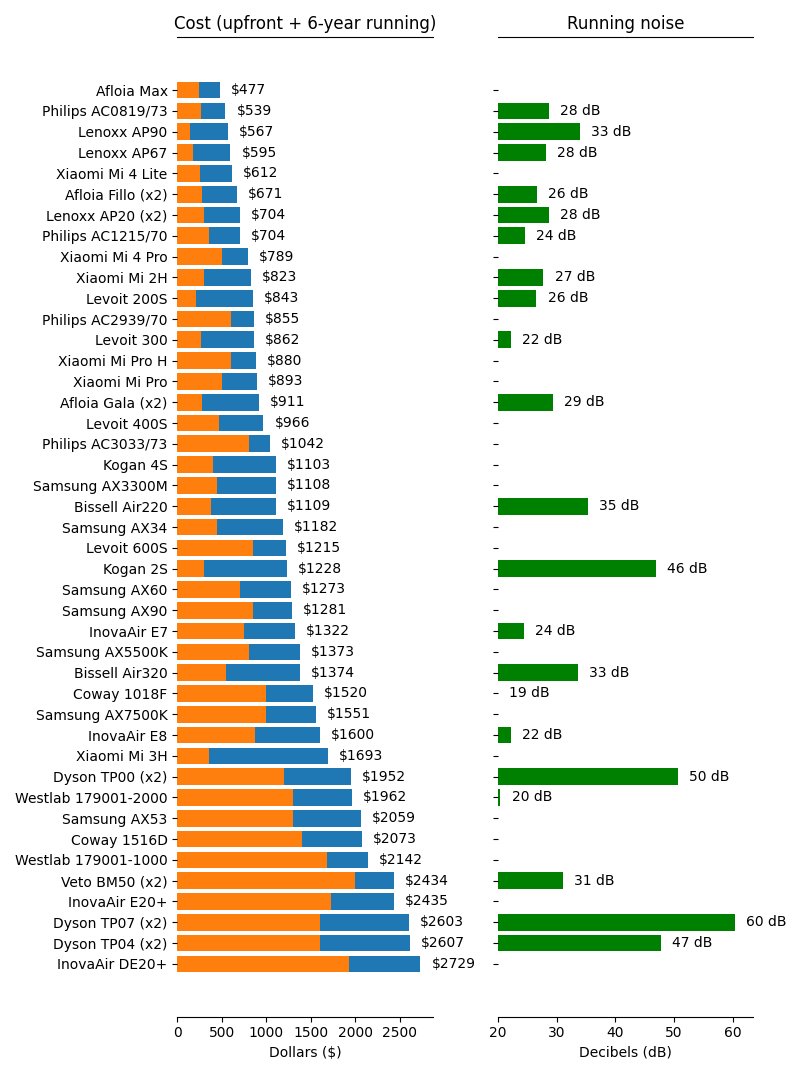
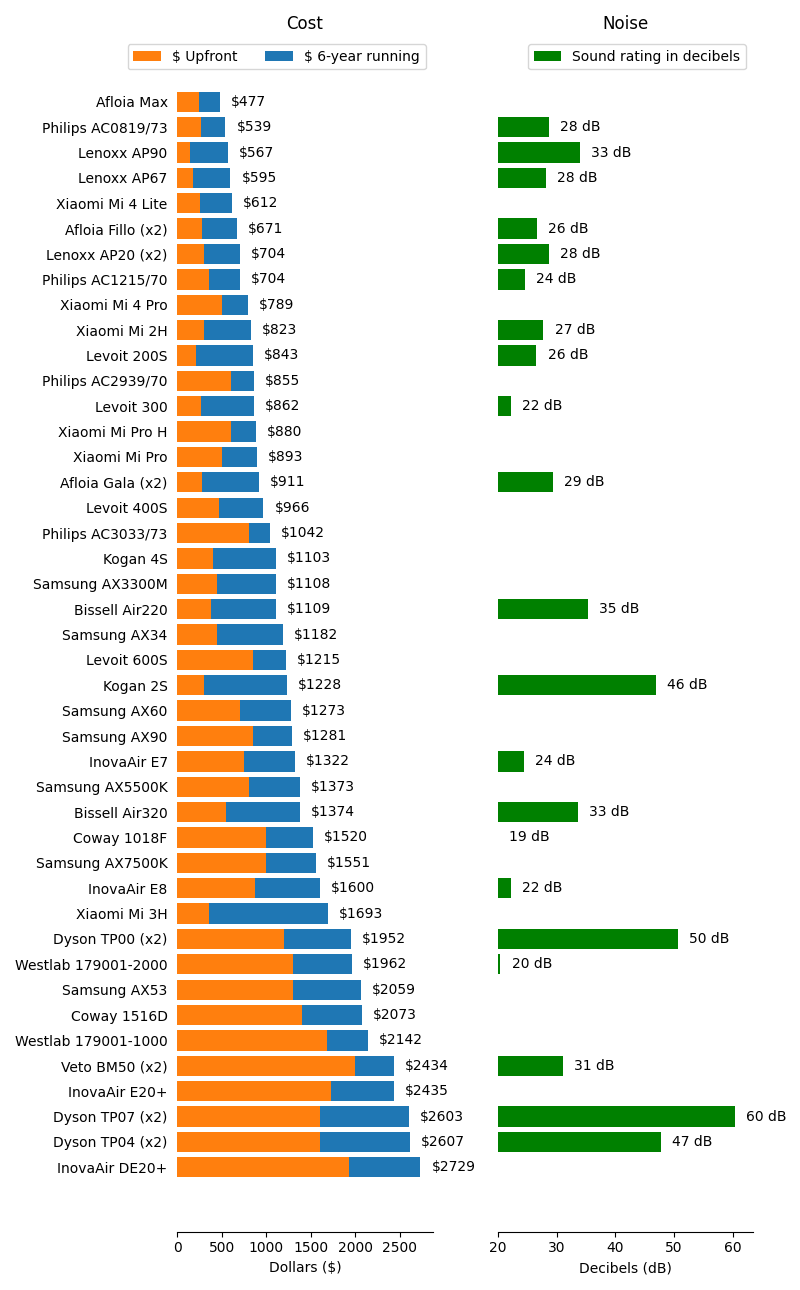
Quick push

diff --git a/aircleaning/produce.py b/aircleaning/produce.py
@@ -30,32 +30,42 @@ def cost_analysis(data, volume, quality, path=productsdir, name='default'):
 
     plt.rcdefaults()
     fig, (ax1, ax2) = plt.subplots(ncols=2)
-    fig.set_size_inches(8, 0.25 * len(data))
+    fig.set_size_inches(8, 0.3 * len(data))
     fig.set_tight_layout(True)
 
     y_pos = np.arange(len(data))
 
-    bars = ax1.barh(y_pos, data['nominal'])
-    ax1.barh(y_pos, data['upfront'])
+    outerbars = ax1.barh(y_pos, data['nominal'])
+    innerbars = ax1.barh(y_pos, data['upfront'])
     ax1.set_yticks(y_pos, labels=data['fullname'])
     ax1.invert_yaxis()  # labels read top-to-bottom
     ax1.set_xlabel('Dollars ($)')
-    ax1.set_title('Cost (upfront + 6-year running)')
-    ax1.bar_label(bars, label_type='edge', padding=8, fmt='$%d')
-    # ax1.spines['top'].set_visible(False)
+    ax1.set_title('Cost')
+    ax1.bar_label(outerbars, label_type='edge', padding=8, fmt='$%d')
+    ax1.spines['top'].set_visible(False)
     ax1.spines['right'].set_visible(False)
     ax1.spines['left'].set_visible(False)
+    ax1.tick_params(axis='y', which='both', left=False)
+    ax1.legend(
+        [innerbars, outerbars], ['$ Upfront', '$ 6-year running'],
+        ncol=2,
+        )
 
     bars = ax2.barh(y_pos, data['noise'], color='green')
     ax2.set_yticks(y_pos, labels=[])
     ax2.invert_yaxis()  # labels read top-to-bottom
     ax2.set_xlabel('Decibels (dB)')
-    ax2.set_title('Running noise')
+    ax2.set_title('Noise')
     ax2.set_xlim(20)
     ax2.bar_label(bars, label_type='edge', padding=8, fmt='%d dB')
-    # ax2.spines['top'].set_visible(False)
+    ax2.spines['top'].set_visible(False)
     ax2.spines['right'].set_visible(False)
     ax2.spines['left'].set_visible(False)
+    ax2.tick_params(axis='y', which='both', left=False)
+    ax2.legend(
+        [bars,], ['Sound rating in decibels'],
+        ncol=2,
+        )
 
     # title = f"Air cleaner choices: a {volume}-sized room with {quality} air quality"
     # fig.suptitle(title, fontproperties=dict(weight='heavy'))
